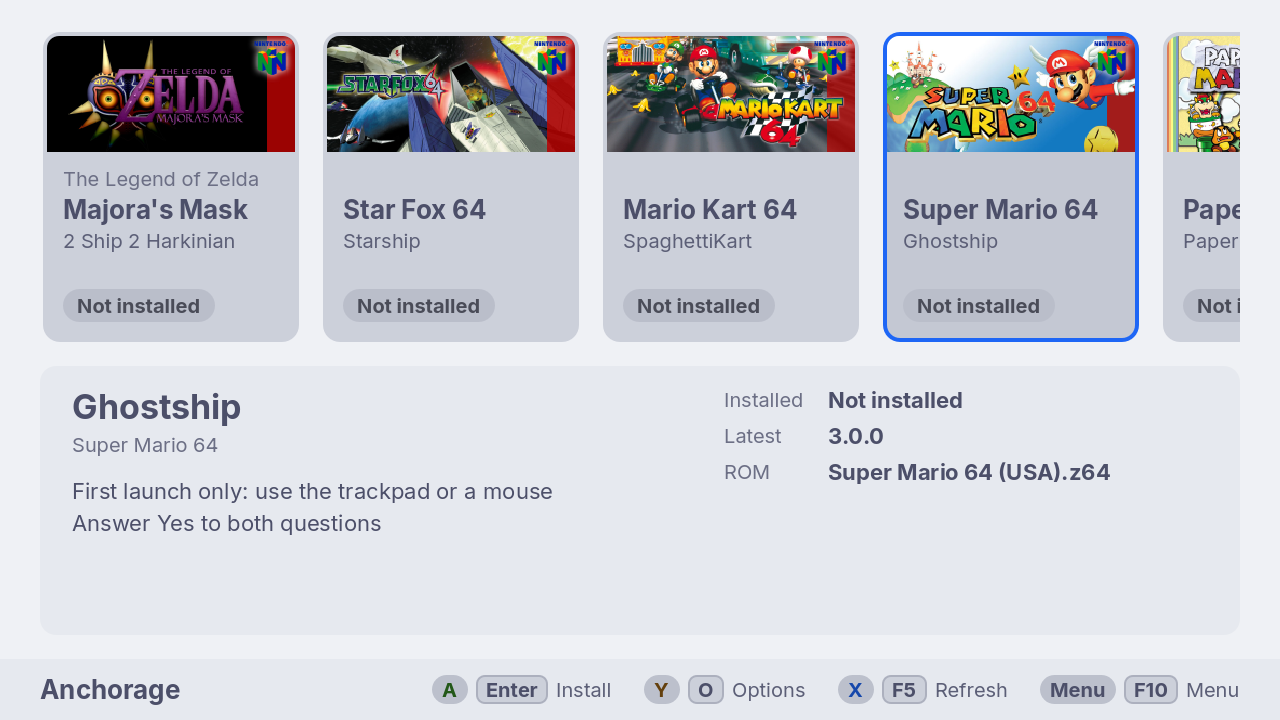
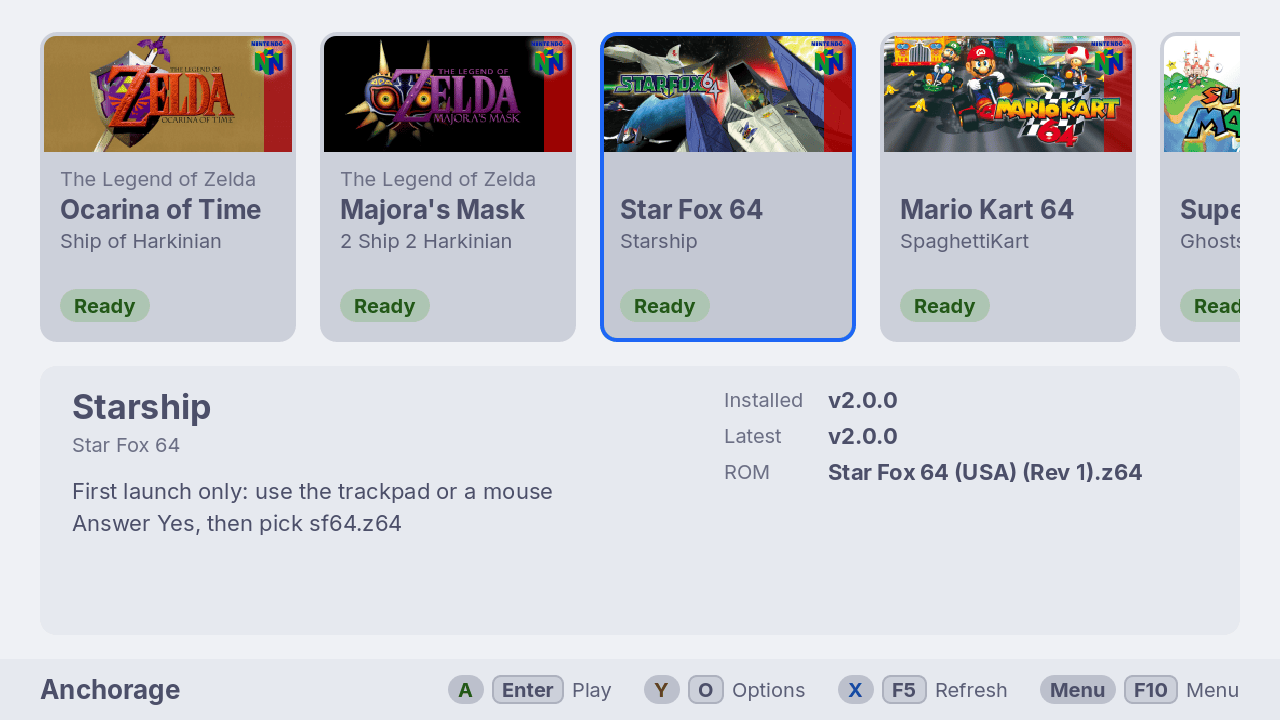
Screenshots for 0.3.0: real art on every card, Menu hint, update chip, several ROM folders
Regenerated by scripts/screenshots.sh. README alt texts, the README's
Development section and the metainfo captions follow the new pictures.

Spec: INT-41, INT-43

diff --git a/spec/integration.md b/spec/integration.md
@@ -52,6 +52,6 @@
 | `INT-30` | `anchorage --help`. | dropped | superseded: Godot reads `--help` and `--version` itself, and the app is started from Steam, not a terminal. |
 | `INT-31` | `anchorage --version`. | dropped | same reason as `INT-30`. The version is `config/version` in `app/project.godot`. |
 | `INT-32` | The man page. | dropped | superseded: bindings and settings are documented in the example files (`CONF-2`), which are the reference for a game-mode app. |
-| `INT-41` | AppStream metainfo, `share/metainfo/io.github.DisposableSoftware.Anchorage.metainfo.xml`: ID, name, summary, a description that keeps the README's warning, the launchable desktop entry, licences, developer, homepage, captioned screenshots (the README's, by their `raw.githubusercontent.com` URLs on `main`, the home screen marked default) and the current release. It passes `appstreamcli validate --no-net`. | done | manual (`appstreamcli validate --no-net`: passes, the one pedantic note is the family's upper-case app ID; five captioned screenshots, `home.png` the default, each URL's file present in `docs/screenshots/`); `test_spec::test_version_is_the_same_everywhere` |
+| `INT-41` | AppStream metainfo, `share/metainfo/io.github.DisposableSoftware.Anchorage.metainfo.xml`: ID, name, summary, a description that keeps the README's warning, the launchable desktop entry, licences, developer, homepage, captioned screenshots (the README's, by their `raw.githubusercontent.com` URLs on `main`, the home screen marked default) and the current release. It passes `appstreamcli validate --no-net`. | done | manual (`appstreamcli validate --no-net`: passes, the one pedantic note is the family's upper-case app ID; five captioned screenshots, `home.png` the default, each URL's file present in `docs/screenshots/`, redrawn for 0.3.0 by `scripts/screenshots.sh` on 2026-11-25 with the captions checked against the pictures); `test_spec::test_version_is_the_same_everywhere` |
 | `INT-42` | The full-colour app icon, `data/io.github.DisposableSoftware.Anchorage.svg` (128×128 viewBox), is the "console tile" chosen by the user: a mauve disc with a base-coloured anchor on a rounded `surface1` tile, flat Catppuccin mocha with no text. `app/icon.svg` (the Godot project and window icon, exported in the pack) is the same file. A symbolic app icon, `io.github.DisposableSoftware.Anchorage-symbolic.svg` (the anchor alone, one colour `#2e3436`, readable at 16 px), is installed beside it in the package and the AppImage. Style guide: layout.md, "Icons". | done | `test_steam_art` (`app/icon.svg` equals the app icon, 128 viewBox, no text, mocha colours; symbolic is 16×16 and `#2e3436` only); manual: `nix build` and `nix build .#appimage` (both icons in `share/icons/hicolor/{scalable,symbolic}/apps`, the new icon in the pack and the AppImage binary, `desktop-file-validate` and `appstreamcli validate --no-net` pass; `scripts/manual/appimage.sh` now lists the symbolic icon), and both icons looked at from 16 to 128 px on dark and light |
-| `INT-43` | The README follows the style guide's shape: centred icon (`docs/icon.svg`, the app icon) and name, a one-line tagline, the vibe-coded warning, a hero screenshot and a 2×2 table of more (`docs/screenshots/`, 1280×720, demo data only, each under 400 KB), then Features, Install, Usage, Keyboard and gamepad, Configuration, Development, Credits and License, and a Credits section that credits [Catppuccin](https://catppuccin.com) and its community with links. Style guide: readme.md. | done | manual (2026-11-23): compared with the Junk Drawer and Downer READMEs; rendered with `cmark-gfm` (five tables, six images, no broken rows); every relative link and image checked to exist by script; the five screenshots taken headless at 1280×720 from `--fake-ports` demo data (`showcase`, `fresh` in latte with blue) with the catalog's SteamGridDB art loaded into a scratch copy of the fake, each looked at, no personal names or paths, 44–250 KB after `oxipng` |
+| `INT-43` | The README follows the style guide's shape: centred icon (`docs/icon.svg`, the app icon) and name, a one-line tagline, the vibe-coded warning, a hero screenshot and a 2×2 table of more (`docs/screenshots/`, 1280×720, demo data only, each under 400 KB), then Features, Install, Usage, Keyboard and gamepad, Configuration, Development, Credits and License, and a Credits section that credits [Catppuccin](https://catppuccin.com) and its community with links. Style guide: readme.md. | done | manual (2026-11-23): compared with the Junk Drawer and Downer READMEs; rendered with `cmark-gfm` (five tables, six images, no broken rows); every relative link and image checked to exist by script; the five screenshots regenerated by `scripts/screenshots.sh` (2026-11-25: headless at 1280×720 from `--fake-ports` demo data with the catalog's SteamGridDB art through `ANCHORAGE_FAKE_ART_DIR`, `ART-8`: the home screen, a download with its first-launch note, the ROM folder chooser with two folders and one not found, the Anchorage menu with the update chip, and latte with blue and a first-launch note), each looked at, no personal names or paths, 25–81 KB after `pngquant` and `oxipng` |

diff --git a/README.md b/README.md
@@ -17,7 +17,7 @@
 > Like any good anchorage, it is a sheltered place to leave your boats, and it says nothing
 > about whether they float. Bug reports will be read with great affection and then ignored.
 
-![The home screen in Catppuccin Mocha: seven port cards with cover art, Ship of Harkinian focused and ready to play, with its details below](docs/screenshots/home.png)
+![The home screen in Catppuccin Mocha: port cards with their cover art, Ship of Harkinian focused and ready to play with its details below, and a hint bar ending in Menu](docs/screenshots/home.png)
 
 Anchorage (`anchorage`) installs, updates and launches the [HarbourMasters](https://github.com/HarbourMasters)
 PC ports of N64 games. It is one non-Steam game in your Steam library: start it in Game
@@ -49,8 +49,8 @@ the right one. It never downloads ROMs.
 
 | | |
 |---|---|
-| ![Starship downloading at 42 percent, with a progress bar on its card and in the detail panel](docs/screenshots/installing.png) | ![The ROM folder chooser at ~/Emulation/roms, with the n64 folder highlighted and its count of six ROM files](docs/screenshots/rom-folder.png) |
-| ![The options menu for Ship of Harkinian: Play, Check for updates, ROM folder and Remove](docs/screenshots/menu.png) | ![Catppuccin Latte with the blue accent, scrolled to Ghostship and its first-launch note](docs/screenshots/latte.png) |
+| ![Starship downloading at 42 percent, with a progress bar on its card and in the detail panel, and its first-launch note in place of the description](docs/screenshots/installing.png) | ![The ROM folder chooser with two chosen folders, the SD card one marked Not found, and the folder search on the right](docs/screenshots/rom-folder.png) |
+| ![The Anchorage menu with Update Anchorage to 0.4.0, Check for updates and new ports, ROM folder and Quit, and an update chip in the hint bar](docs/screenshots/menu.png) | ![Catppuccin Latte with the blue accent: Starship focused, with its first-launch note](docs/screenshots/latte.png) |
 
 ## Install
 
@@ -393,8 +393,14 @@ The scripts in [`scripts/manual/`](scripts/manual) drive the app in a headless s
 every state (`shots.sh`, `rom-folder.sh`), the window sizes from 720p to 4K, the AppImage,
 the SteamOS installer against fake Steam folders (`steam-install.sh`), and an end-to-end
 run that installs and starts the real ports (`e2e.sh`). The README screenshots are
-1280×720 shots of the demo data, with the cover art fetched from SteamGridDB at the time.
+1280×720 shots of the demo data (below).
 The pre-push hook refuses ROMs and large files (`scripts/check-no-roms.sh`).
+
+To redraw the README and metainfo screenshots, run `nix build && scripts/screenshots.sh`. It
+fetches the seven covers from SteamGridDB's CDN into a temp folder (never inside the
+repository, never committed), shows them through the fake ports'
+`ANCHORAGE_FAKE_ART_DIR`, takes the five shots headless at 1280×720 in a fresh sandbox and
+optimises them into `docs/screenshots/`. Look at each one before you commit it.
 
 The port list is `app/data/ports.json`, and Anchorage fetches it from `main`, so a new port
 needs no new release. [`docs/adding-a-port.md`](docs/adding-a-port.md) covers the fields,
